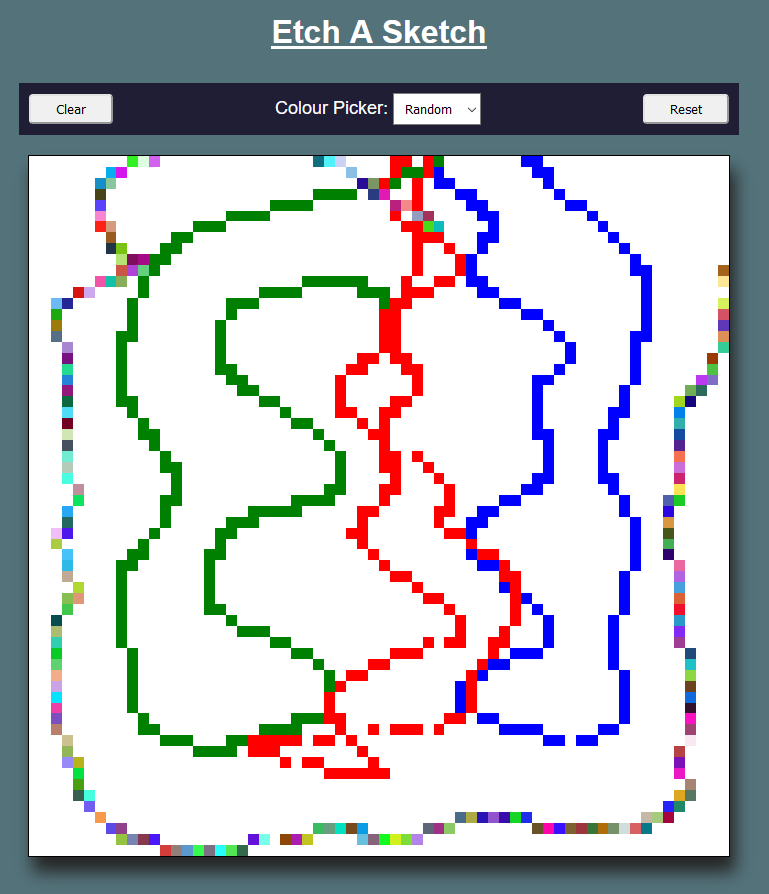
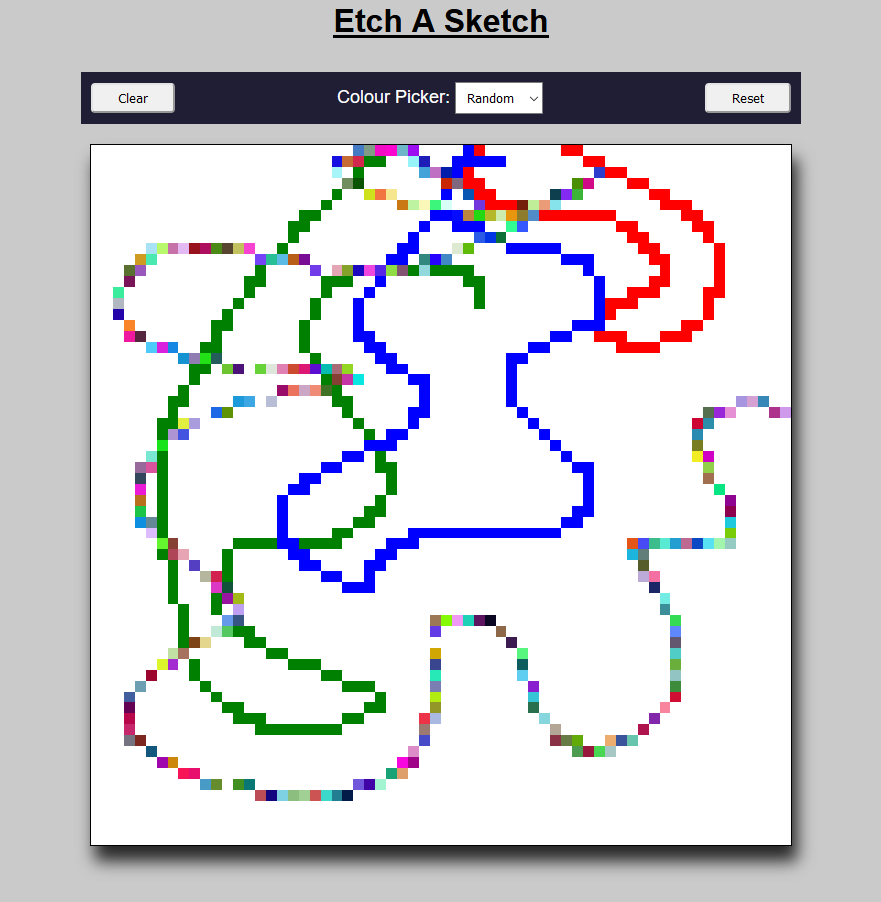
changed bg to white and update readme

diff --git a/style.css b/style.css
@@ -5,7 +5,7 @@ html, body {
 }
 
 body {  
-  background-color: rgb(83, 114, 122);
+  background-color: rgb(202, 202, 202);
 }
 
 #main-content {
@@ -16,7 +16,7 @@ body {
 }
 
 #main-content h1 {
-  color: white;
+  color: black;
   text-decoration: underline;
 }
 
